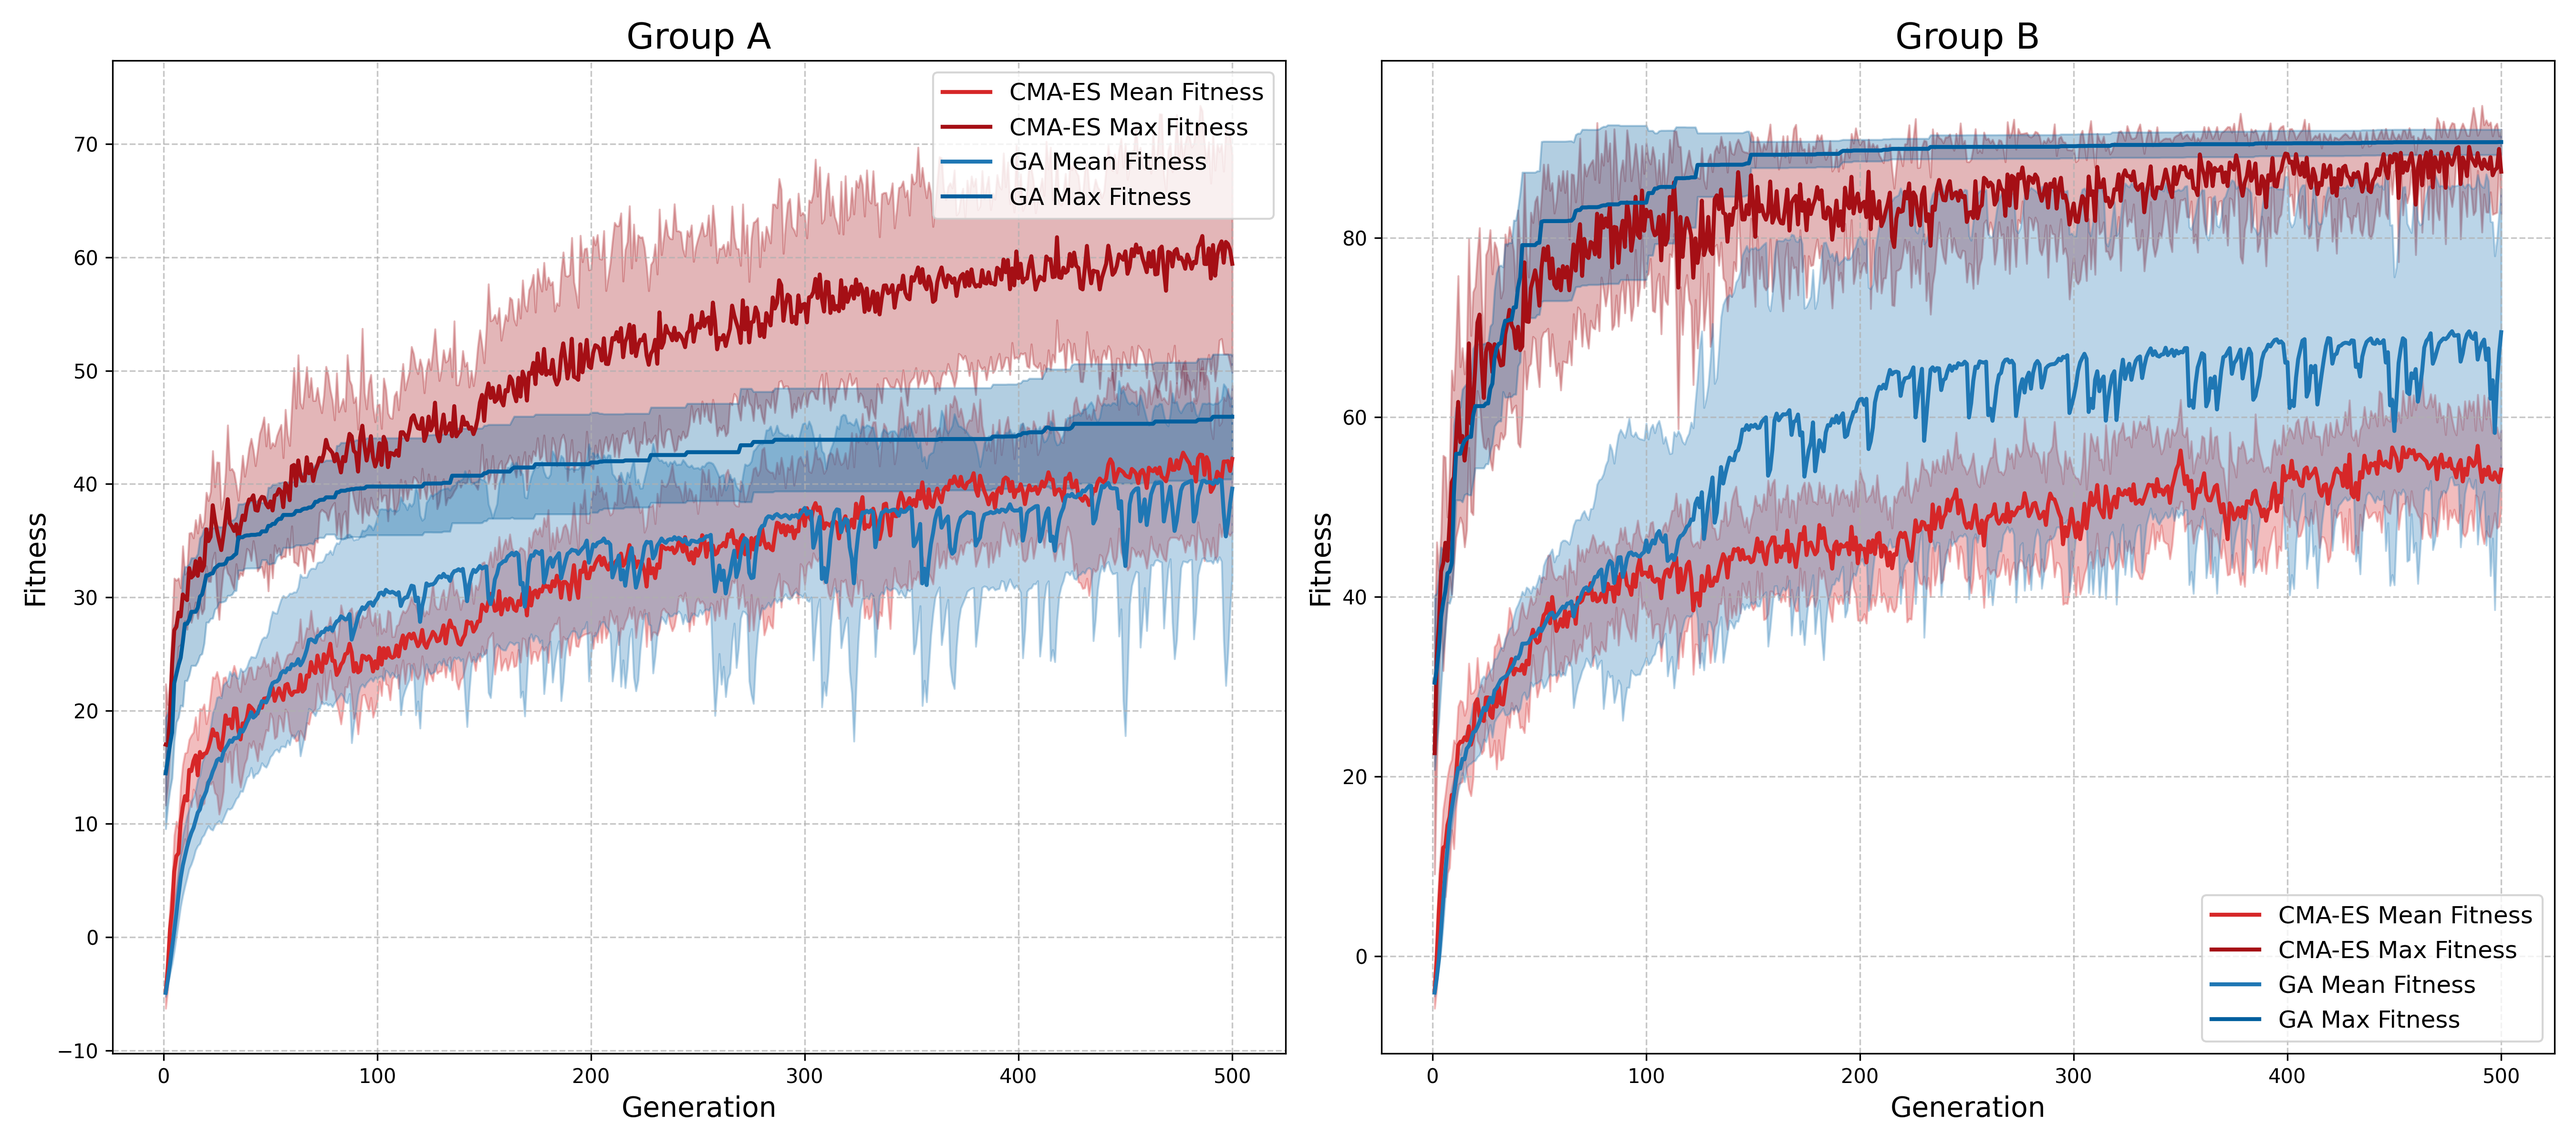
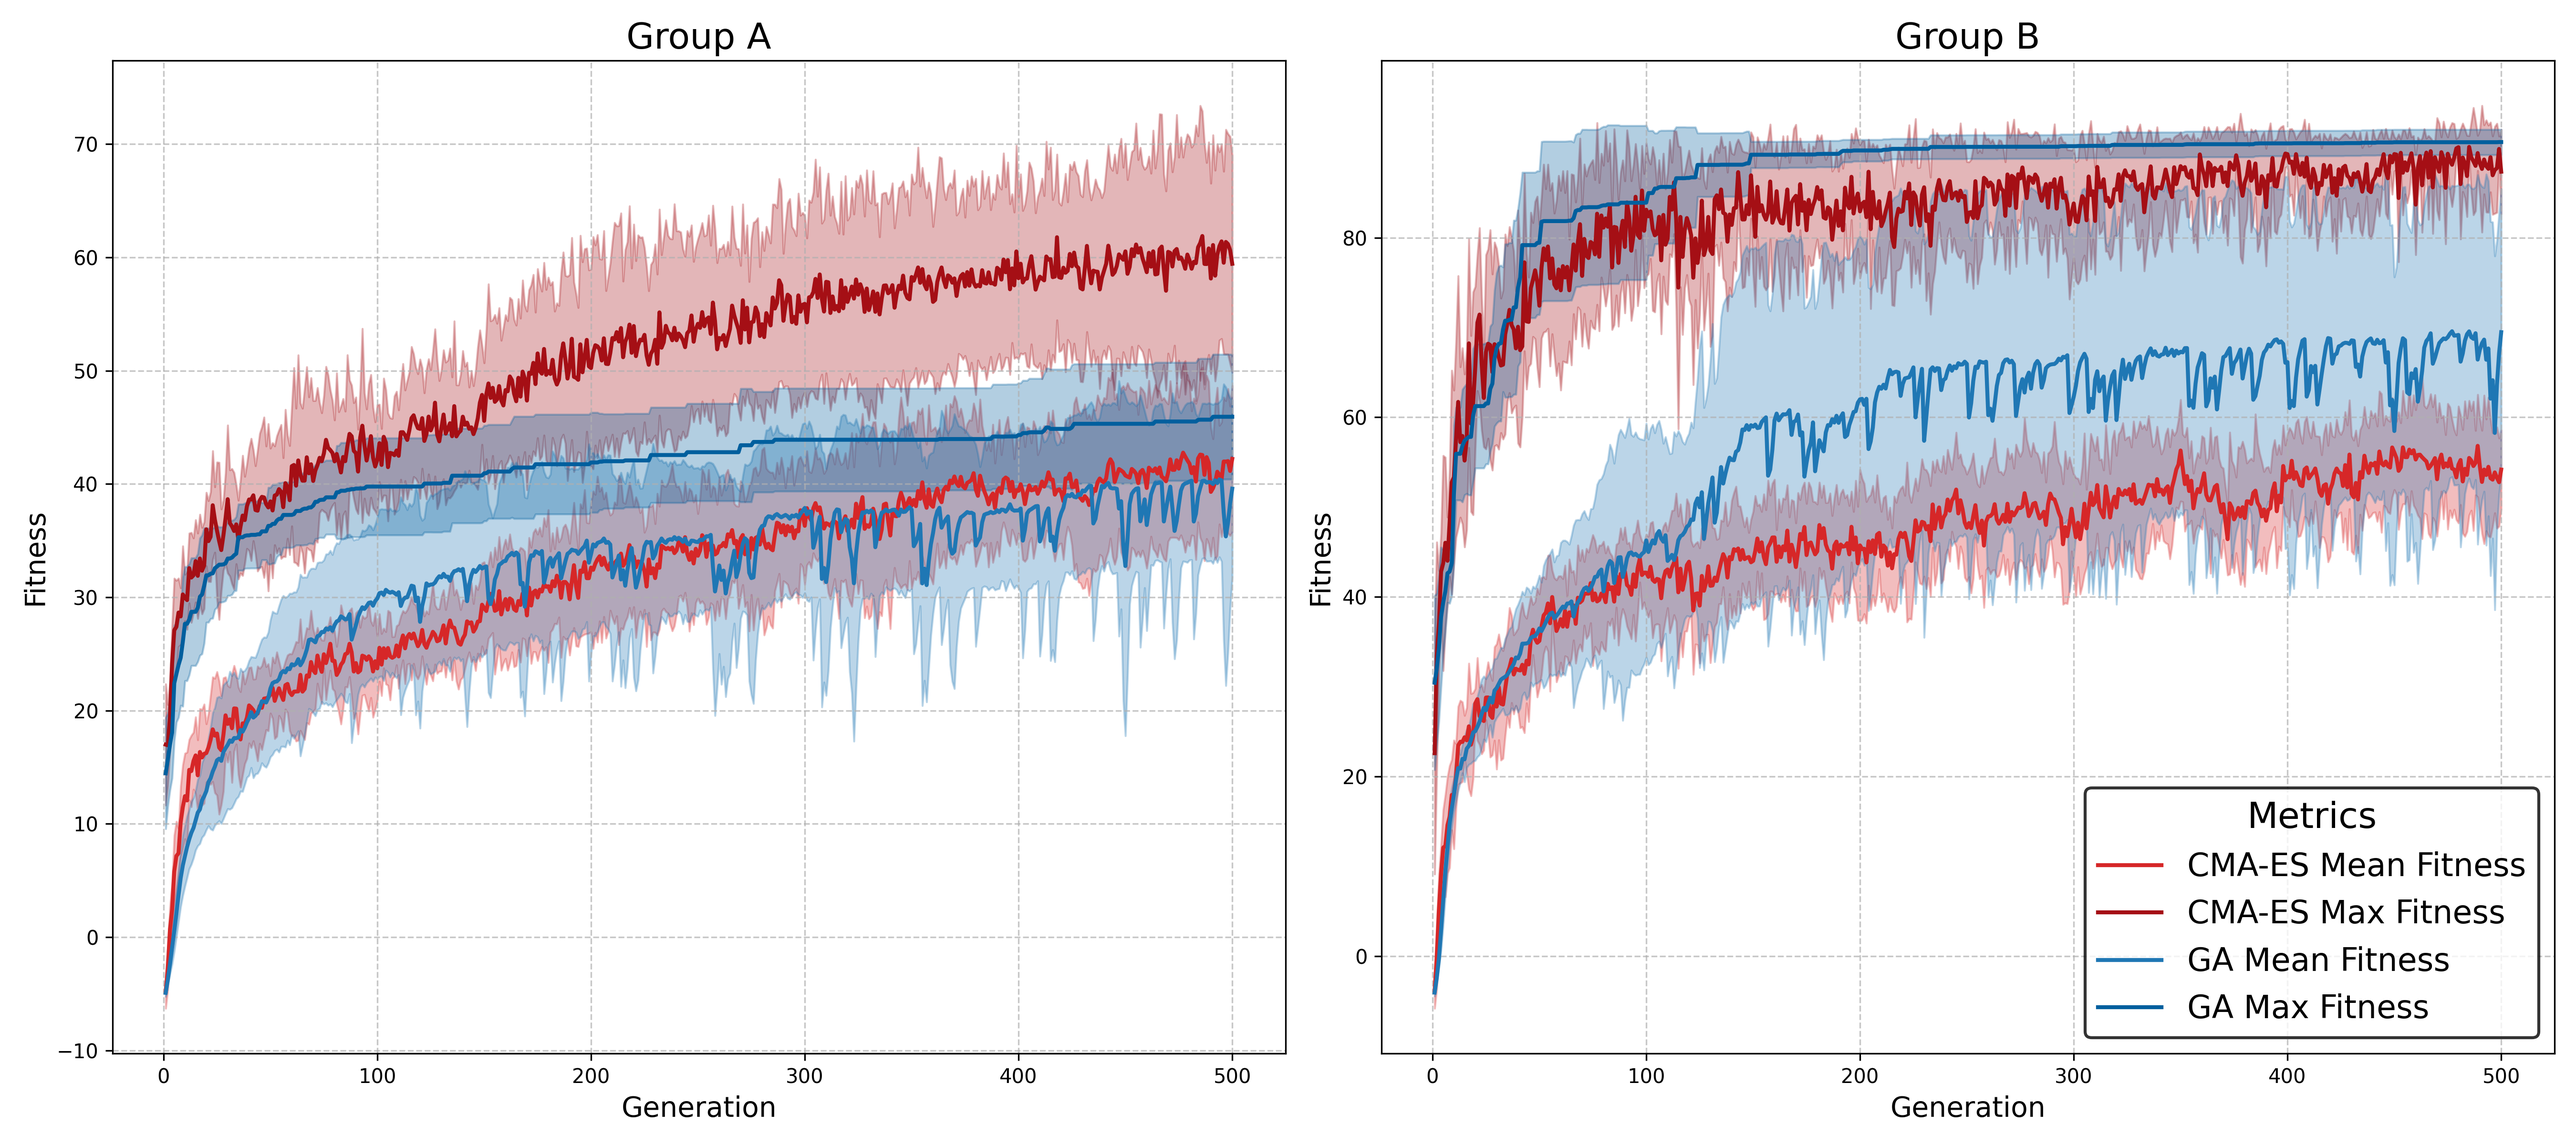
fix plot bigger legend

diff --git a/plotter.py b/plotter.py
@@ -133,6 +133,7 @@ def plot_evolution3x3(target_directory="evolution_data", save=True, save_path="e
         print(f"Plot saved to {save_path}")
     plt.show()
 
+
 def plot_evolution_groups(algo_names, train_group_1, train_group_2, save=False, save_path="evolution_plot.png",
                           show=False, save_dir="evolution_data_generalist", plot_spreads=True):
     """
@@ -215,6 +216,7 @@ def plot_evolution_groups(algo_names, train_group_1, train_group_2, save=False, 
             if plot_spreads:
                 ax.fill_between(X, mean_mean - std_mean, mean_mean + std_mean,
                                 color=color_mean, alpha=0.3)
+                # Uncomment the following lines if you want to include double standard deviation
                 # ax.fill_between(X, mean_mean - 2 * std_mean, mean_mean + 2 * std_mean,
                 #                 color=color_mean, alpha=0.2)
 
@@ -225,20 +227,27 @@ def plot_evolution_groups(algo_names, train_group_1, train_group_2, save=False, 
             if plot_spreads:
                 ax.fill_between(X, mean_max - std_max, mean_max + std_max,
                                 color=color_max, alpha=0.3)
+                # Uncomment the following lines if you want to include double standard deviation
                 # ax.fill_between(X, mean_max - 2 * std_max, mean_max + 2 * std_max,
                 #                 color=color_max, alpha=0.2)
 
+        # Set titles and labels
         ax.set_title(f"Group {group_label}", fontsize=18)
         ax.set_xlabel("Generation", fontsize=14)
-        if idx == 0:
-            ax.set_ylabel("Fitness", fontsize=14)
-        else:
-            # Optionally, you can add a y-label to the second subplot as well
-            ax.set_ylabel("Fitness", fontsize=14)
-        ax.legend(fontsize=12)
+        ax.set_ylabel("Fitness", fontsize=14)
+
+        # Add legend only to the right-hand subplot (index 1)
+        if idx == 1:
+            legend = ax.legend(fontsize=16, title="Metrics", title_fontsize=18, loc='best')
+            legend.get_frame().set_edgecolor('black')  # Add a border to the legend
+            legend.get_frame().set_linewidth(1.5)  # Set the border width
+
+        # Add grid lines
         ax.grid(True, linestyle='--', alpha=0.7)
 
     plt.tight_layout()
+
+    # Save the plot if required
     if save:
         if not os.path.exists(save_dir):
             os.makedirs(save_dir)
@@ -246,9 +255,13 @@ def plot_evolution_groups(algo_names, train_group_1, train_group_2, save=False, 
         plt.savefig(full_save_path, dpi=300)
         print(f"Plot saved to {full_save_path}")
 
+    # Show the plot if required
     if show:
         plt.show()
 
+    # Close the plot to free memory
     plt.close()
+
+
 
 
